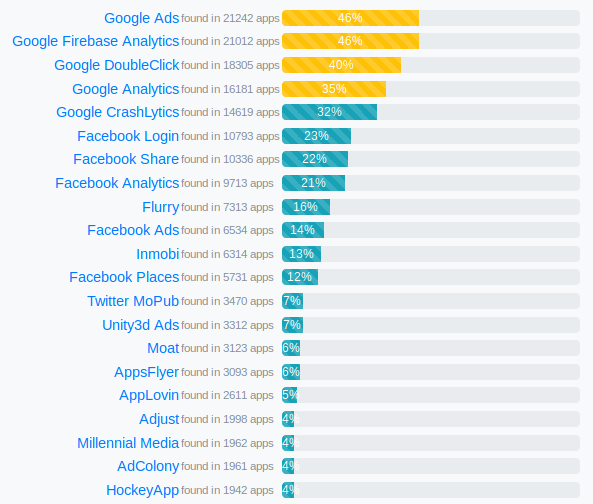
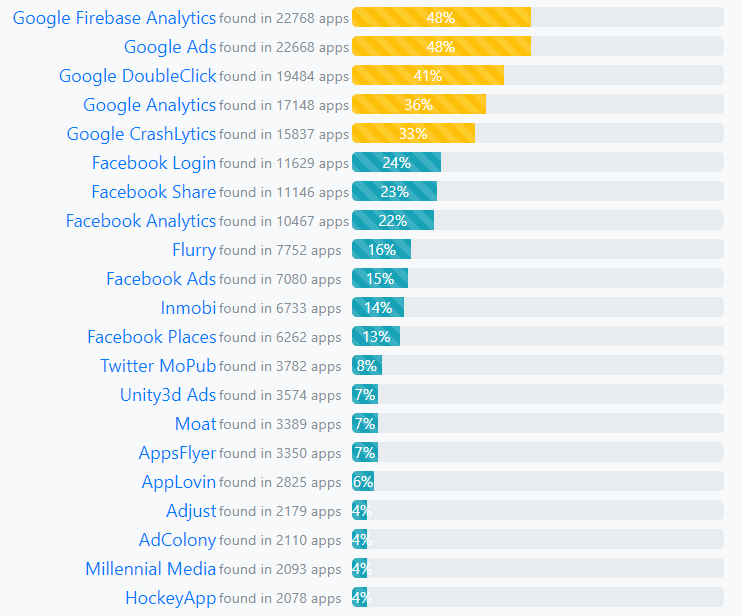
added new screenshots

Changed region(s): [[0.0304, 0.0, 0.7285, 1.0]]

diff --git a/conferences/talks/2019_fosdem.html b/conferences/talks/2019_fosdem.html
@@ -173,7 +173,7 @@
 
 	<section class="slide">
 		<!-- TODO: update the screenshot -->
-		<img src="assets/tracker.1.png" class="cover">
+		<img src="assets/tracker.2.png" class="cover">
 	</section>
 
 	<section class="slide">
@@ -222,7 +222,7 @@
     <section class="slide">
         <h2>Exodify: Exodus Privacy in your browser</h2>
         <div class="place center bottom">
-            <img src="assets/img-banks.jpg" height="450px" class="">
+            <img src="assets/img-banks.2.png" height="450px" class="">
         </div>
     </section>
 
